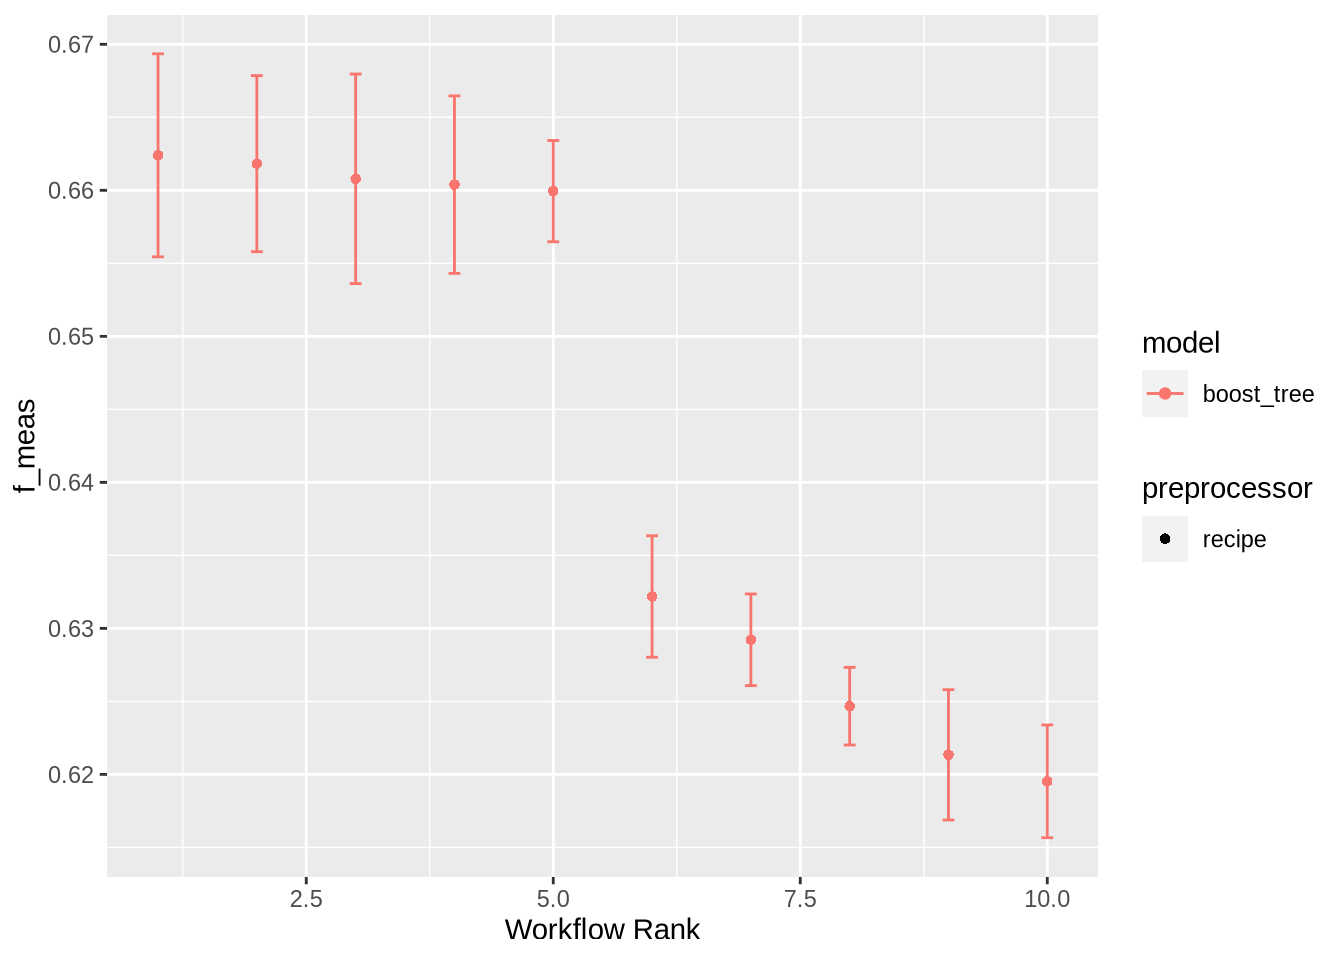
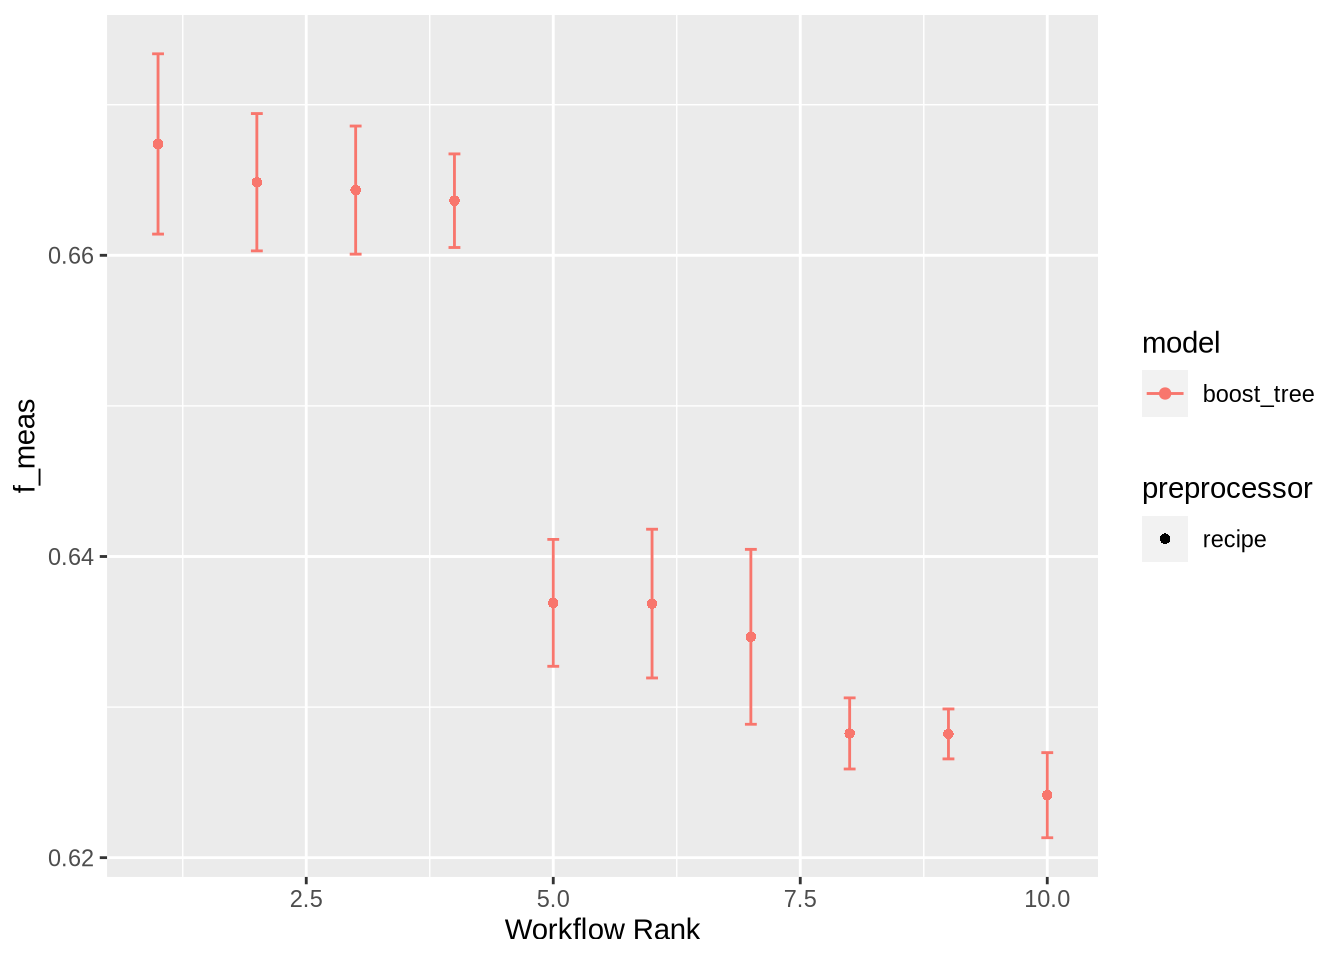
model run

diff --git a/docs/dengue-model/classification/03_model_ref_simp.html b/docs/dengue-model/classification/03_model_ref_simp.html
@@ -629,7 +629,7 @@ gtag('config', 'G-ZMP18L536K', { 'anonymize_ip': true});
     <div>
     <div class="quarto-title-meta-heading">Last modification</div>
     <div class="quarto-title-meta-contents">
-      <p class="date">February 13, 2024 | 12:02:01 -03:00</p>
+      <p class="date">February 13, 2024 | 12:25:37 -03:00</p>
     </div>
   </div>
   
@@ -724,11 +724,11 @@ gtag('config', 'G-ZMP18L536K', { 'anonymize_ip': true});
 <div class="sourceCode cell-code" id="cb7"><pre class="sourceCode r code-with-copy"><code class="sourceCode r"><span id="cb7-1"><a href="#cb7-1" aria-hidden="true" tabindex="-1"></a>rec_ref_simp_2 <span class="ot">&lt;-</span> <span class="fu">recipe</span>(CLASSI_FIN <span class="sc">~</span> ., <span class="at">data =</span> dc_ref_simp_training) <span class="sc">|&gt;</span></span>
 <span id="cb7-2"><a href="#cb7-2" aria-hidden="true" tabindex="-1"></a>  <span class="fu">step_rm</span>(CRITERIO, case_source, ID_MN_RESI) <span class="sc">|&gt;</span></span>
 <span id="cb7-3"><a href="#cb7-3" aria-hidden="true" tabindex="-1"></a>  <span class="fu">step_date</span>(DT_SIN_PRI, <span class="at">features =</span> <span class="fu">c</span>(<span class="st">"month"</span>), <span class="at">label =</span> <span class="cn">FALSE</span>, <span class="at">keep_original_cols =</span> <span class="cn">FALSE</span>) <span class="sc">|&gt;</span></span>
-<span id="cb7-4"><a href="#cb7-4" aria-hidden="true" tabindex="-1"></a>  <span class="fu">step_dummy</span>(uf_res) <span class="sc">|&gt;</span></span>
+<span id="cb7-4"><a href="#cb7-4" aria-hidden="true" tabindex="-1"></a>  <span class="fu">step_dummy</span>(uf_res, <span class="at">one_hot =</span> <span class="cn">TRUE</span>) <span class="sc">|&gt;</span></span>
 <span id="cb7-5"><a href="#cb7-5" aria-hidden="true" tabindex="-1"></a>  <span class="fu">step_integer</span>(<span class="fu">all_logical_predictors</span>()) <span class="sc">|&gt;</span></span>
 <span id="cb7-6"><a href="#cb7-6" aria-hidden="true" tabindex="-1"></a>  <span class="fu">step_mutate_at</span>(<span class="fu">all_of</span>(symp_cond_vars), <span class="at">fn =</span> <span class="sc">~</span><span class="fu">replace_na</span>(., <span class="dv">0</span>)) <span class="sc">|&gt;</span></span>
 <span id="cb7-7"><a href="#cb7-7" aria-hidden="true" tabindex="-1"></a>  <span class="fu">step_other</span>(CS_GESTANT) <span class="sc">|&gt;</span></span>
-<span id="cb7-8"><a href="#cb7-8" aria-hidden="true" tabindex="-1"></a>  <span class="fu">step_dummy</span>(CS_SEXO, CS_GESTANT)</span></code><button title="Copy to Clipboard" class="code-copy-button"><i class="bi"></i></button></pre></div>
+<span id="cb7-8"><a href="#cb7-8" aria-hidden="true" tabindex="-1"></a>  <span class="fu">step_dummy</span>(CS_SEXO, CS_GESTANT, <span class="at">one_hot =</span> <span class="cn">TRUE</span>)</span></code><button title="Copy to Clipboard" class="code-copy-button"><i class="bi"></i></button></pre></div>
 </div>
 </section>
 </section>
@@ -786,13 +786,13 @@ gtag('config', 'G-ZMP18L536K', { 'anonymize_ip': true});
 <pre><code>i 1 of 2 tuning:     rec_ref_simp_1_xgb</code></pre>
 </div>
 <div class="cell-output cell-output-stderr">
-<pre><code>✔ 1 of 2 tuning:     rec_ref_simp_1_xgb (2m 12.1s)</code></pre>
+<pre><code>✔ 1 of 2 tuning:     rec_ref_simp_1_xgb (2m 10.6s)</code></pre>
 </div>
 <div class="cell-output cell-output-stderr">
 <pre><code>i 2 of 2 tuning:     rec_ref_simp_2_xgb</code></pre>
 </div>
 <div class="cell-output cell-output-stderr">
-<pre><code>✔ 2 of 2 tuning:     rec_ref_simp_2_xgb (3m 36.7s)</code></pre>
+<pre><code>✔ 2 of 2 tuning:     rec_ref_simp_2_xgb (3m 52.3s)</code></pre>
 </div>
 </div>
 <div class="cell">
@@ -803,16 +803,16 @@ gtag('config', 'G-ZMP18L536K', { 'anonymize_ip': true});
 <pre><code># A tibble: 50 × 9
    wflow_id         .config .metric  mean std_err     n preprocessor model  rank
    &lt;chr&gt;            &lt;chr&gt;   &lt;chr&gt;   &lt;dbl&gt;   &lt;dbl&gt; &lt;int&gt; &lt;chr&gt;        &lt;chr&gt; &lt;int&gt;
- 1 rec_ref_simp_2_… Prepro… accura… 0.646 0.00287     5 recipe       boos…     1
- 2 rec_ref_simp_2_… Prepro… f_meas  0.662 0.00423     5 recipe       boos…     1
- 3 rec_ref_simp_2_… Prepro… roc_auc 0.699 0.00465     5 recipe       boos…     1
- 4 rec_ref_simp_2_… Prepro… sens    0.673 0.00740     5 recipe       boos…     1
- 5 rec_ref_simp_2_… Prepro… spec    0.618 0.00277     5 recipe       boos…     1
- 6 rec_ref_simp_2_… Prepro… accura… 0.649 0.00370     5 recipe       boos…     2
- 7 rec_ref_simp_2_… Prepro… f_meas  0.662 0.00367     5 recipe       boos…     2
- 8 rec_ref_simp_2_… Prepro… roc_auc 0.702 0.00348     5 recipe       boos…     2
- 9 rec_ref_simp_2_… Prepro… sens    0.666 0.00489     5 recipe       boos…     2
-10 rec_ref_simp_2_… Prepro… spec    0.631 0.00563     5 recipe       boos…     2
+ 1 rec_ref_simp_2_… Prepro… accura… 0.648 0.00413     5 recipe       boos…     1
+ 2 rec_ref_simp_2_… Prepro… f_meas  0.667 0.00364     5 recipe       boos…     1
+ 3 rec_ref_simp_2_… Prepro… roc_auc 0.701 0.00446     5 recipe       boos…     1
+ 4 rec_ref_simp_2_… Prepro… sens    0.684 0.00383     5 recipe       boos…     1
+ 5 rec_ref_simp_2_… Prepro… spec    0.610 0.00597     5 recipe       boos…     1
+ 6 rec_ref_simp_2_… Prepro… accura… 0.645 0.00286     5 recipe       boos…     2
+ 7 rec_ref_simp_2_… Prepro… f_meas  0.665 0.00277     5 recipe       boos…     2
+ 8 rec_ref_simp_2_… Prepro… roc_auc 0.699 0.00460     5 recipe       boos…     2
+ 9 rec_ref_simp_2_… Prepro… sens    0.683 0.00423     5 recipe       boos…     2
+10 rec_ref_simp_2_… Prepro… spec    0.605 0.00524     5 recipe       boos…     2
 # ℹ 40 more rows</code></pre>
 </div>
 </div>
@@ -877,7 +877,7 @@ There were issues with some computations   A: x2</code></pre>
 <pre><code># A tibble: 2 × 4
   .metric  .estimator .estimate .config             
   &lt;chr&gt;    &lt;chr&gt;          &lt;dbl&gt; &lt;chr&gt;               
-1 accuracy binary         0.661 Preprocessor1_Model1
+1 accuracy binary         0.647 Preprocessor1_Model1
 2 roc_auc  binary         0.708 Preprocessor1_Model1</code></pre>
 </div>
 </div>
@@ -887,8 +887,8 @@ There were issues with some computations   A: x2</code></pre>
 <div class="cell-output cell-output-stdout">
 <pre><code>          Truth
 Prediction Negative Positive
-  Negative     1613      791
-  Positive      789     1465</code></pre>
+  Negative     1623      865
+  Positive      779     1391</code></pre>
 </div>
 </div>
 <div class="cell">
